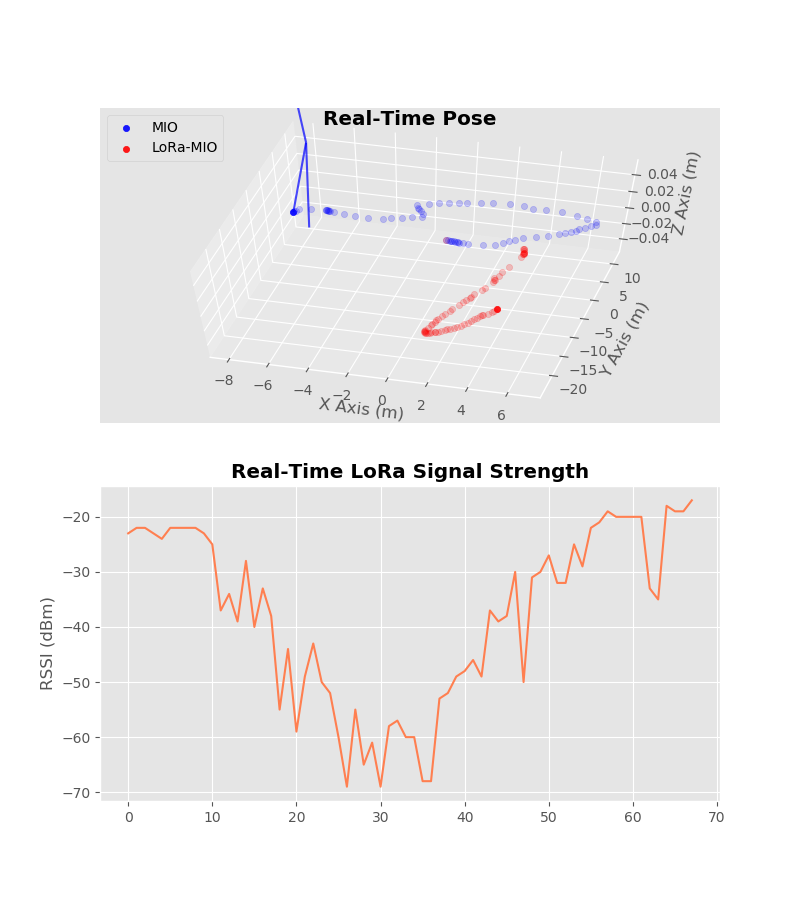
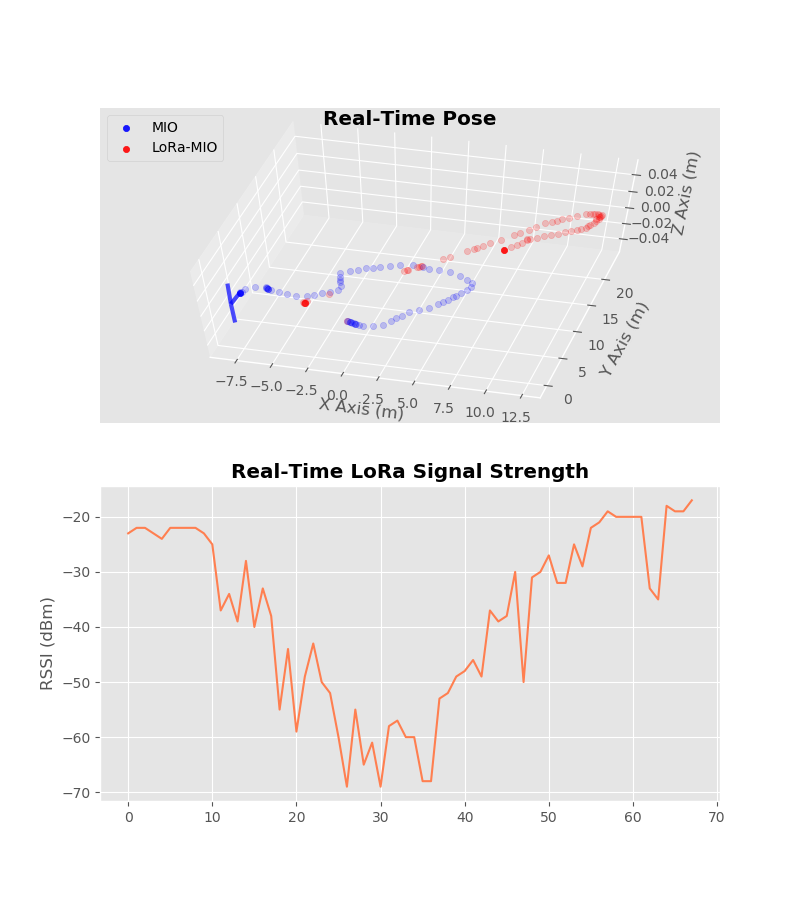
2D current Yaw make sense

diff --git a/EKF.py b/EKF.py
@@ -233,16 +233,17 @@ class EKF_Fusion():
         euler_rot = np.array([[abs_pred_transform[0, 0], abs_pred_transform[0, 1], abs_pred_transform[0, 2]],
                               [abs_pred_transform[1, 0], abs_pred_transform[1, 1], abs_pred_transform[1, 2]],
                               [abs_pred_transform[2, 0], abs_pred_transform[2, 1], abs_pred_transform[2, 2]]], dtype=float)
+        # euler_rad = (yaw, pitch, roll)
         euler_rad = mat2euler(euler_rot)
         self.abs_yaw = euler_rad[0]
         #print("Current Eular = ", euler_rad)
         self.odom_quat = np.array(euler2quat(euler_rad[0], euler_rad[1], euler_rad[2]))
         #print("Current Quaternion = ", self.odom_quat)
         
-        # Unit Vector from Eular Angle
-        self.U = math.cos(euler_rad[2])*math.cos(euler_rad[1])
-        self.V = math.sin(euler_rad[2])*math.cos(euler_rad[1])
-        self.W = math.sin(euler_rad[1])
+        # Unit Vector from Eular Angle; Simplify Orientation Representation by Pitch = 0
+        self.U = math.cos(self.abs_yaw)#math.cos(euler_rad[0])*math.cos(euler_rad[1])
+        self.V = math.sin(self.abs_yaw)#math.sin(euler_rad[0])*math.cos(euler_rad[1])
+        self.W = 0#math.sin(euler_rad[1])
         
         self.path.append([abs_pred_transform[0, 3], abs_pred_transform[1, 3], 0])
         
@@ -252,7 +253,7 @@ class EKF_Fusion():
         # Trigger EKF
         self.rt_run(gap)
         print("Elapsed time of EKF = ", time.time() - start_t)
-        
+        print("ABS_YAW: ", self.abs_yaw)
         print("State X:\n", self.my_kf.x)
         if self.visual:
             self.rt_show()
@@ -274,7 +275,7 @@ class EKF_Fusion():
             #print("Measurement:\n", z)
             # Refresh Measurement noise R
             for j in range(0, 2):
-                self.my_kf.R[j, j] = self.sigma_list[-g][j]**2 # Sigma stands for Standard Deviation
+                self.my_kf.R[j, j] = sigma_list[-g][j]**2 # Sigma stands for Standard Deviation
                 
             # Refresh State Transition Martrix: F
             self.my_kf.F = eye(4) + array([[0, 0, -self.dt * self.my_kf.x[3, 0] * math.sin(self.my_kf.x[2, 0]), self.dt * math.cos(self.my_kf.x[2, 0])],
@@ -365,7 +366,7 @@ class EKF_Fusion():
         #self.handle_arrw_ekf.remove()
         self.handle_scat = self.ax21.scatter([self.path[-1][0]], [self.path[-1][1]], [self.path[-1][2]], color='b', marker='o', alpha=.9, label='MIO')
         self.handle_arrw = self.ax21.quiver([self.path[-1][0]], [self.path[-1][1]], [self.path[-1][2]],
-            self.U, self.V, self.W, color='b', length=1., alpha=.7)
+            self.U, self.V, self.W, color='b', length=2., arrow_length_ratio=0.05, linewidths=3., alpha=.7)
         self.handle_scat_ekf = self.ax21.scatter([self.xs[-1][0, 0]], [self.xs[-1][1, 0]], [0.], color='r', marker='o', alpha=.9, label='LoRa-MIO')
         # Not Attempting to Visual EKF Updated Orientation
         #self.handle_arrw_ekf = self.ax21.quiver([self.my_kf.x[0, 0]], [self.my_kf.x[1, 0]], [self.my_kf.x[2, 0]], self.U_ekf, self.V_ekf, self.W_ekf, color='r', length=1., alpha=.7)
@@ -417,7 +418,7 @@ class EKF_Fusion():
         '''
         quiv_len = np.sqrt(u**2 + v**2 + w**2)
         self.handle_scat = self.ax21.scatter(x, y, z, color='b', marker='o', alpha=.9, label='MIO')
-        self.handle_arrw = self.ax21.quiver(x, y, z, u, v, w, color='b', length=quiv_len, alpha=.9)
+        self.handle_arrw = self.ax21.quiver(x, y, z, u, v, w, color='b', length=2., arrow_length_ratio=0.05, linewidths=3., alpha=.7)
         self.handle_scat_ekf = self.ax21.scatter(X, Y, Z, color='r', marker='o', alpha=.9, label='LoRa-MIO')
         self.ax21.legend(loc='upper left')
         

diff --git a/replay.py b/replay.py
@@ -86,10 +86,10 @@ class EKF_Fusion_MultiRX_ZYaw(EKF_Fusion):
         self.anchor = anchor
         super().__init__(dim_z=3+self.anchor, dt=dt, visual=visual)
         # TWEEK PARAMS
-        self.my_kf.x = np.array([0., 0., 0., 0.3]).reshape(-1, 1)
+        self.my_kf.x = np.array([0., 0., math.pi/2, 0.3]).reshape(-1, 1)
         self.my_kf.P = np.diag(np.array([10., 10., 20., 20.]))
         self.my_kf.Q = np.diag(np.array([.0, .0, 0.0, 0.01]))
-        
+        # Initial R doesn't matter; it is updated @run_rt
         measure_noise = np.array([1.**2, 1.**2, .1**2, 4.887**2])
         for dim in range(1, self.anchor):
             measure_noise = np.hstack((measure_noise, np.array([4.887**2])))
@@ -110,9 +110,9 @@ class EKF_Fusion_MultiRX_ZYaw(EKF_Fusion):
             #print("Measurement:\n", z)
             
             # Refresh Measurement noise R
-            self.my_kf.R[0, 0] = self.sigma_list[-g][0]**2
-            self.my_kf.R[1, 1] = self.sigma_list[-g][1]**2
-            self.my_kf.R[2, 2] = self.sigma_list[-g][5]**2 # Sigma of rot_z or Yaw
+            self.my_kf.R[0, 0] = 0.0001#self.sigma_list[-g][0]**2
+            self.my_kf.R[1, 1] = 0.0001#self.sigma_list[-g][1]**2
+            self.my_kf.R[2, 2] = 0.0001#self.sigma_list[-g][5]**2 # Sigma of rot_z or Yaw
             # Refresh State Transition Martrix: F
             self.my_kf.F = eye(4) + array([[0, 0, -self.dt * self.my_kf.x[3, 0] * math.sin(self.my_kf.x[2, 0]), self.dt * math.cos(self.my_kf.x[2, 0])],
                                   [0, 0, self.dt * self.my_kf.x[3, 0] * math.cos(self.my_kf.x[2, 0]), self.dt * math.sin(self.my_kf.x[2, 0])],
